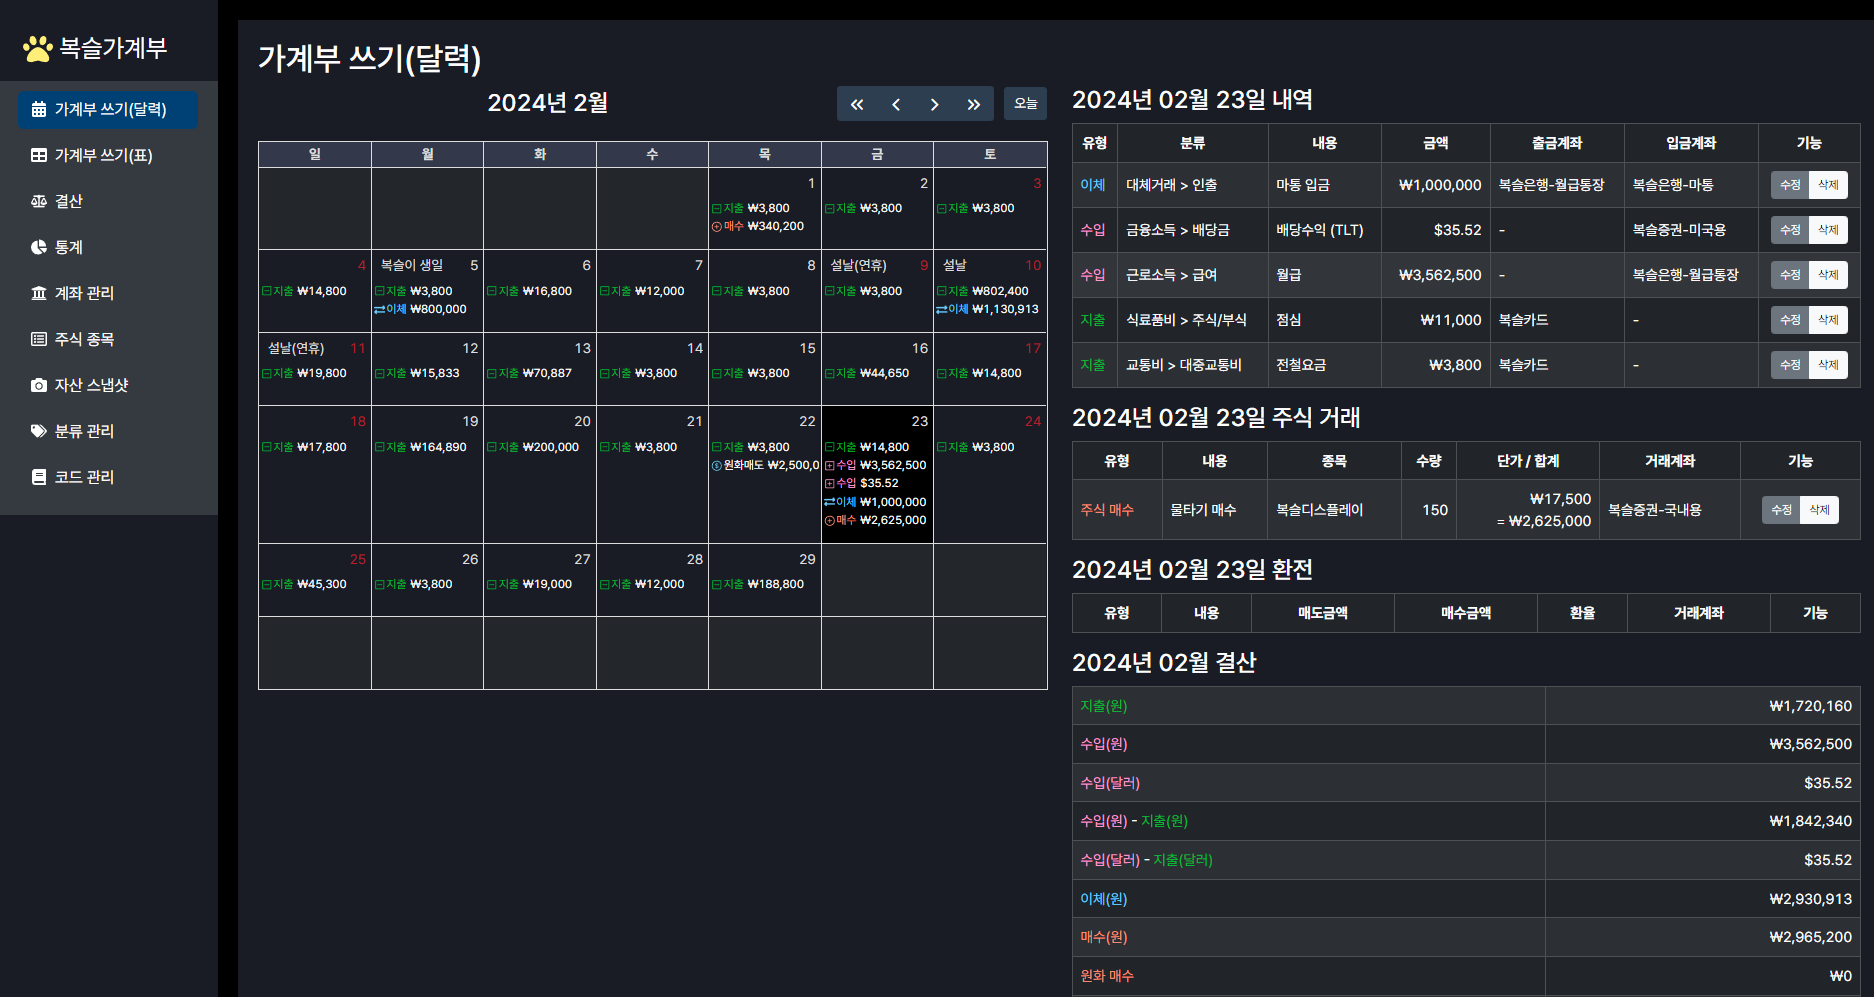
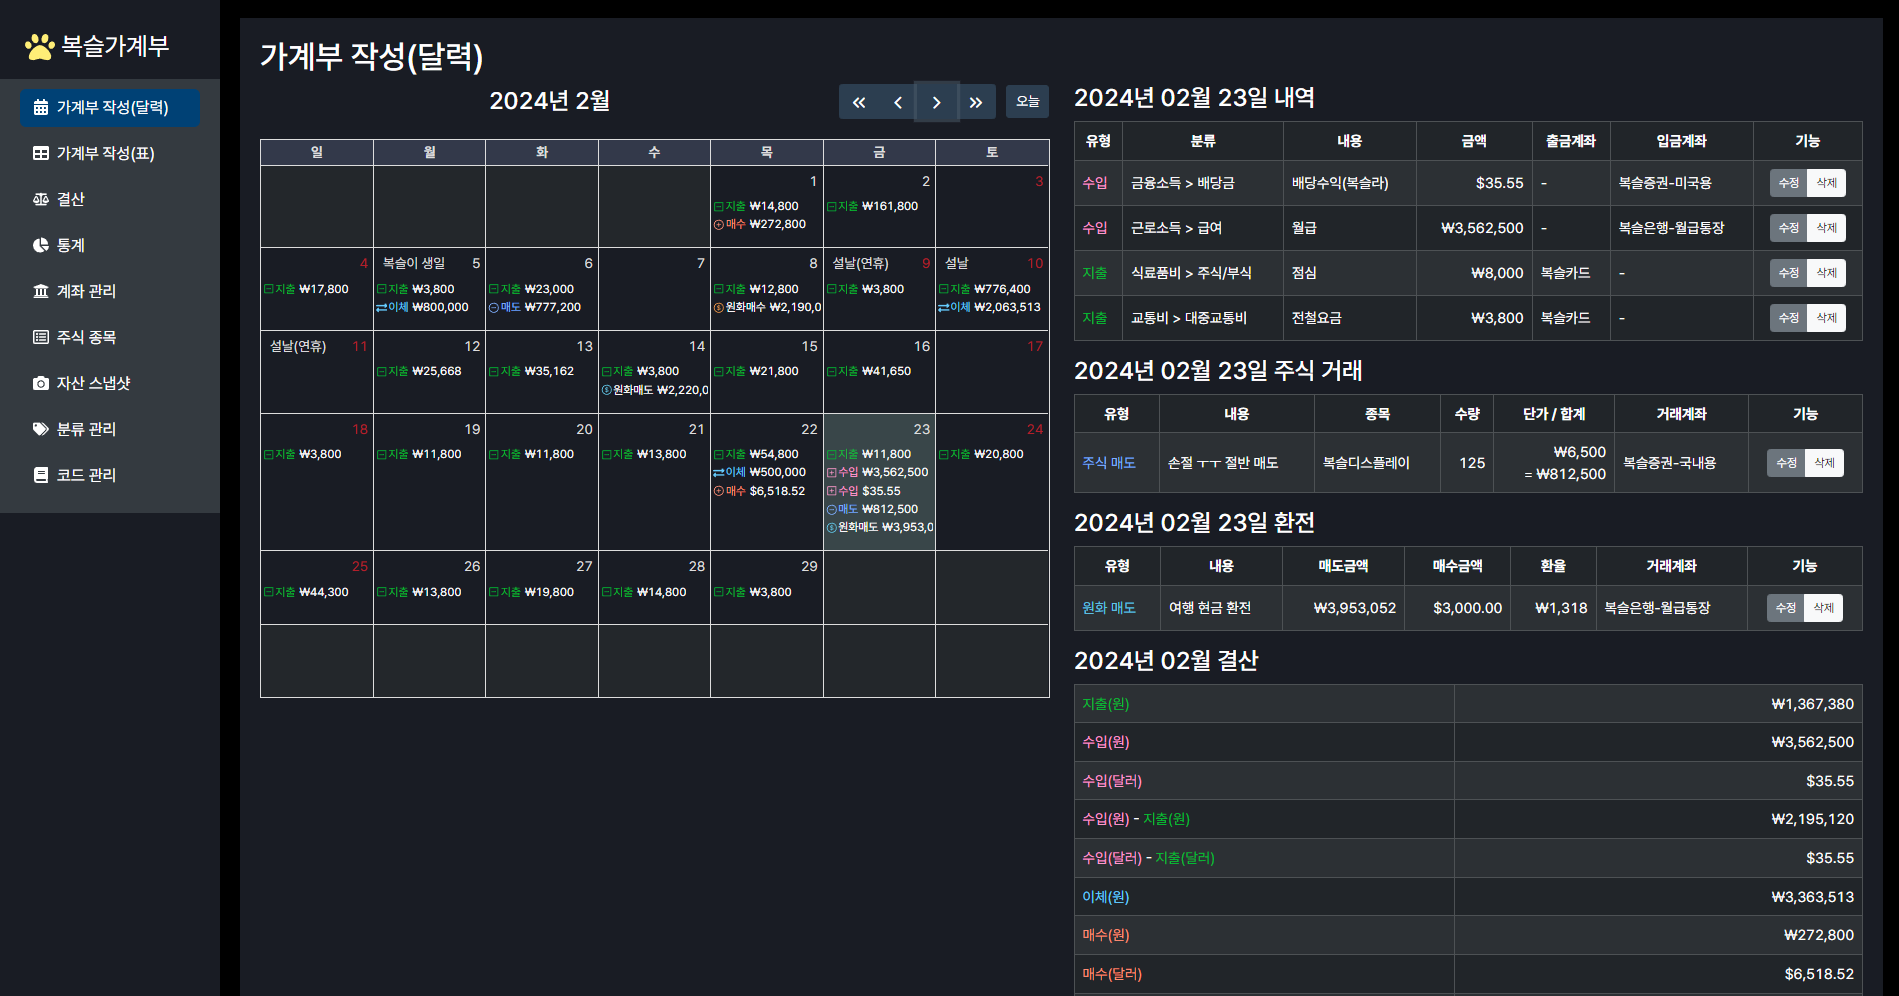
README 업데이트

diff --git a/src/main/service/SampleDataMakerService.ts b/src/main/service/SampleDataMakerService.ts
@@ -112,7 +112,7 @@ export default class SampleDataMakerService {
 
   private static async insertExchange(currentDate: Date) {
     await this.saveExchange(
-      (d: Date) => this.percent(0.007),
+      (d: Date) => this.percent(0.027),
       () => this.getRandomInRange(2_000_000, 3_000_000, 100_00),
       () => this.getRandomInRange(2_000, 3_000, 10),
       {
@@ -125,7 +125,7 @@ export default class SampleDataMakerService {
       },
     );
     await this.saveExchange(
-      (d: Date) => this.percent(0.007),
+      (d: Date) => this.percent(0.027),
       () => this.getRandomInRange(2_000, 3_000, 10),
       () => this.getRandomInRange(2_000_000, 3_000_000, 100_00),
       {
@@ -185,7 +185,7 @@ export default class SampleDataMakerService {
     );
 
     await this.saveTrade(
-      (d: Date) => this.percent(0.005),
+      (d: Date) => this.percent(0.015),
       () => this.getRandomInRange(8_000, 20_000, 100),
       () => this.getRandomInRange(50, 80, 1),
       () => this.getRandomInRange(-25, -10, 1),
@@ -198,7 +198,7 @@ export default class SampleDataMakerService {
     );
 
     await this.saveTrade(
-      (d: Date) => this.percent(0.003),
+      (d: Date) => this.percent(0.013),
       () => this.getRandomInRange(5_000, 20_000, 50),
       () => this.getRandomInRange(10, 80, 1),
       () => 0,
@@ -224,7 +224,7 @@ export default class SampleDataMakerService {
     );
 
     await this.saveTrade(
-      (d: Date) => this.percent(0.002),
+      (d: Date) => this.percent(0.012),
       () => this.getRandomInRange(25_000, 80_000, 100),
       () => this.getRandomInRange(50, 80, 1),
       () => this.getRandomInRange(10, 50, 1),
@@ -263,9 +263,9 @@ export default class SampleDataMakerService {
     );
 
     await this.saveTrade(
-      (d: Date) => this.percent(0.002),
-      () => this.getRandomInRange(80, 500, 0.01),
-      () => this.getRandomInRange(30, 85, 1),
+      (d: Date) => this.percent(0.02),
+      () => this.getRandomInRange(80, 200, 0.01),
+      () => this.getRandomInRange(30, 45, 1),
       () => 0,
       {
         stockBuy: { stockBuySeq: 6 } as StockBuyEntity,

diff --git a/src/main/service/MemoService.ts b/src/main/service/MemoService.ts
@@ -3,7 +3,7 @@ import AppDataSource from '../config/AppDataSource';
 import { ReqMemoModel, ReqSearchModel } from '../../common/ReqModel';
 import { MemoEntity } from '../entity/Entity';
 import { ResMemoModal } from '../../common/ResModel';
-import { escapeWildcards, toUTCDate } from '../util';
+import { escapeWildcards } from '../util';
 import MemoRepository from '../repository/MemoRepository';
 
 export default class MemoService {
@@ -32,8 +32,14 @@ export default class MemoService {
   }
 
   static async getSeqForDate(date: Date) {
-    const memoDate = toUTCDate(date);
-    const memo = await this.memoRepository.repository.findOne({ where: { memoDate: memoDate, deleteF: false } });
+    const memoDate = moment(date).format('YYYY-MM-DD');
+    const memo = await this.memoRepository.repository.findOne({
+      // @ts-ignore
+      where: {
+        memoDate,
+        deleteF: false,
+      },
+    });
     if (!memo) {
       return 0;
     }

diff --git a/src/renderer/Menu.tsx b/src/renderer/Menu.tsx
@@ -4,8 +4,8 @@ import React from 'react';
 import { Link, useLocation } from 'react-router-dom';
 
 const menuItems = [
-  { path: 'LedgerCalendar', label: '가계부 쓰기(달력)', icon: <FaCalendarAlt className="me-2" /> },
-  { path: 'LedgerTable', label: '가계부 쓰기(표)', icon: <FaTable className="me-2" /> },
+  { path: 'LedgerCalendar', label: '가계부 작성(달력)', icon: <FaCalendarAlt className="me-2" /> },
+  { path: 'LedgerTable', label: '가계부 작성(표)', icon: <FaTable className="me-2" /> },
   { path: 'FinancialSettlement', label: '결산', icon: <FaBalanceScale className="me-2" /> },
   { path: 'Statistics', label: '통계', icon: <FaChartPie className="me-2" /> },
   { path: 'AccountManagement', label: '계좌 관리', icon: <FaUniversity className="me-2" /> },

diff --git a/src/renderer/components/LedgerCalendar.tsx b/src/renderer/components/LedgerCalendar.tsx
@@ -25,7 +25,7 @@ function LedgerCalendar(): React.ReactElement {
 
   return (
     <Container fluid style={{ height: '100%', padding: '20px' }} className="color-theme-content">
-      <h2>가계부 쓰기(달력)</h2>
+      <h2>가계부 작성(달력)</h2>
       <Row>
         <CalendarPart onChangeDate={handleChangeDate} onChange={handleChange} ref={calendarPartRef} />
         <Col>

diff --git a/src/renderer/components/LedgerTable.tsx b/src/renderer/components/LedgerTable.tsx
@@ -7,7 +7,7 @@ import TableExchange from './table/TableExchange';
 function LedgerCalendar() {
   return (
     <Container fluid style={{ height: '100%', padding: '20px' }} className="color-theme-content">
-      <h2>가계부 쓰기(표)</h2>
+      <h2>가계부 작성(표)</h2>
       <Tab.Container defaultActiveKey="transaction">
         <Row>
           <Col sm={12}>

diff --git a/README.md b/README.md
@@ -1,7 +1,8 @@
 # 복슬가계부
-[복슬머니](https://github.com/setvect/BokslMoneyApp) 후속작.<br/> 전작과 주요 차이점은 **외국통화**, **해외주식** 기능 제공. 그리고 **다크 테마 UI** 적용.  
 
-## 주요기능
+[복슬머니](https://github.com/setvect/BokslMoneyApp) 후속작.<br/> 전작과 주요 차이점은 **외국통화**, **해외주식** 기능 제공. 그리고 **다크 테마 UI** 적용.
+
+## 1. 주요기능
 
 - 계좌(통장, 카드, 주식 등) 등록 및 관리
 - 다중 통화 관리
@@ -18,9 +19,9 @@
 - 수입/지출/이체 내역 및 자산 변동 통계
   - 환율이 적용된 자산 가치 산출
 
-## 실행 및 빌드
+## 2. 실행 및 빌드
 
-### 초기셋팅
+### 2.1. 초기셋팅
 
 ```shell
 $ npm install
@@ -29,13 +30,14 @@ $ cd release/app
 $ npm install
 ```
 
-### 실행 방법
+### 2.2. 실행 방법
+
 ```shell
 $ npm start
 ```
 
 
-### 빌드 방법 (인스톤 파일 생성)
+### 2.3. 빌드 방법 (인스톤 파일 생성)
 
 ```shell
 $ npm run package
@@ -43,25 +45,31 @@ $ npm run package
 
 - 빌드 결과는 `release/build` 폴더에 생성됨
 
-## 주요화면
+## 3. 설계 문서
+- 
+- [테이블 설계서](doc/TABLE-SCHEMA.md)
+
+## 4. 주요화면
+- 
 - 달력 보기
 ![img.png](doc/img/img.png)
-- 지출 입력
-![img_2.png](doc/img/img_2.png)
 
-- 목록 보기
+- 지출 입력
 ![img_1.png](doc/img/img_1.png)
 
-- 주식 매매 내역
-![img_3.png](doc/img/img_3.png)
+- 목록 보기
+![img_2.png](doc/img/img_2.png)
 
+- 주식 매매 내역
+5. ![img_3.png](doc/img/img_3.png)
+-
 - 환전 내역
 ![img_4.png](doc/img/img_4.png)
 
 - 결산 내역
 ![img_5.png](doc/img/img_5.png)
 
-- 수입/지출/이체 그래프
+- 월별 수입/지출/이체/매수/매도 그래프
 ![img_6.png](doc/img/img_6.png)
 
 - 자산 변환 그래프
@@ -73,11 +81,12 @@ $ npm run package
 - 자산 스냅샷
 ![img_9.png](doc/img/img_9.png)
 
-## 개발환경
+## 5. 개발환경
 
 프로젝트 초기환경은 [electron-react-boilerplate](https://github.com/electron-react-boilerplate/electron-react-boilerplate)를 기반으로 만들었음.
 
-### 주요 프레임워크 및 라이브러리
+### 5.1. 주요 프레임워크 및 라이브러리
+
 상세 버전은 [package.json](package.json)를 확인
 
 - [typescript](https://www.typescriptlang.org)
@@ -86,42 +95,45 @@ $ npm run package
 - [sqlite3](https://www.sqlite.org)
 - [React Bootstrap](https://react-bootstrap.netlify.app)
 - [react-icons](https://react-icons.github.io/react-icons)
-- [나눔글꼴](https://hangeul.naver.com/font/nanum)
 - [Pretendard 글꼴](https://github.com/orioncactus/pretendard)
 - [FullCalendar](https://fullcalendar.io)
 
-## 문제 해결에 도움이 된 사이트
+## 6. 관련 정보
 
-- 대부분의 문제는 [GPT4](https://chat.openai.com/)에 질문하여 해결 했음
+### 6.1. 문제 해결에 도움이 된 사이트
 
-## 릴리즈
+- 대부분의 문제는 [GPT4](https://chat.openai.com/)에게 질문하여 해결 했음
+
+### 6.2. 릴리즈
+
 [RELEASE.md](RELEASE.md) 참고
 
-## 각동팁
+### 6.3. 꿀팁
 
-### 샘플 데이터 만들기
+#### 6.3.1. 샘플 데이터 만들기
+
 지출, 수입, 이체, 주식 거래, 환전등 각종 초기 데이터를 만들고 테스트 할 수 있도록 할 수 있음. 방법은 두 가지.
 
 1. [SampleDataMakerService.test.ts](src/__tests__/SampleDataMakerService.test.ts) 테스트 코드 실행
-2. 개발 환경으로 실행 후 메뉴 항목 에서 '복슬가게부' → '샘플 데이터 만들기'선택 
+2. 개발 환경으로 실행 후 메뉴 항목 에서 '복슬가게부' → '샘플 데이터 만들기'선택
 
-개발 실행 모드에서만 가능 
+개발 실행 모드에서만 가능
 
-### main process 자동 실행 방지 방법 - package.json 수정
+#### 6.3.2. main process 자동 실행 방지 방법 - package.json 수정
 
 개발환경 프로그램 실행한 상태에서 main process 소스코드를 수정하면 어플리케이션이 다시 실행되어 불편한 경우가 있음. 이때 아래처럼 설정을 수정하면 됨.
 
 - 수정전: `"start:main": "cross-env NODE_ENV=development electronmon -r ts-node/register/transpile-only ."`
 - 수정후: `"start:main": "cross-env NODE_ENV=development electron -r ts-node/register/transpile-only .","`
 
-### 프로그램 로그
+#### 6.3.3. 프로그램 로그
 
 인스톨 후 로그 파일 저장되는 경로
 
 - 윈도우: `C:\Users\[사용자 이름]\AppData\Roaming\boksl-account-book\logs`
 - 맥: `~/Library/Logs/boksl-account-book/logs`
 
-### DB 파일 저장 경로
+#### 6.3.4. DB 파일 저장 경로
 
 [AppDataSource.ts](src/main/config/AppDataSource.ts) `DB_PATH` 변수 참고
 
